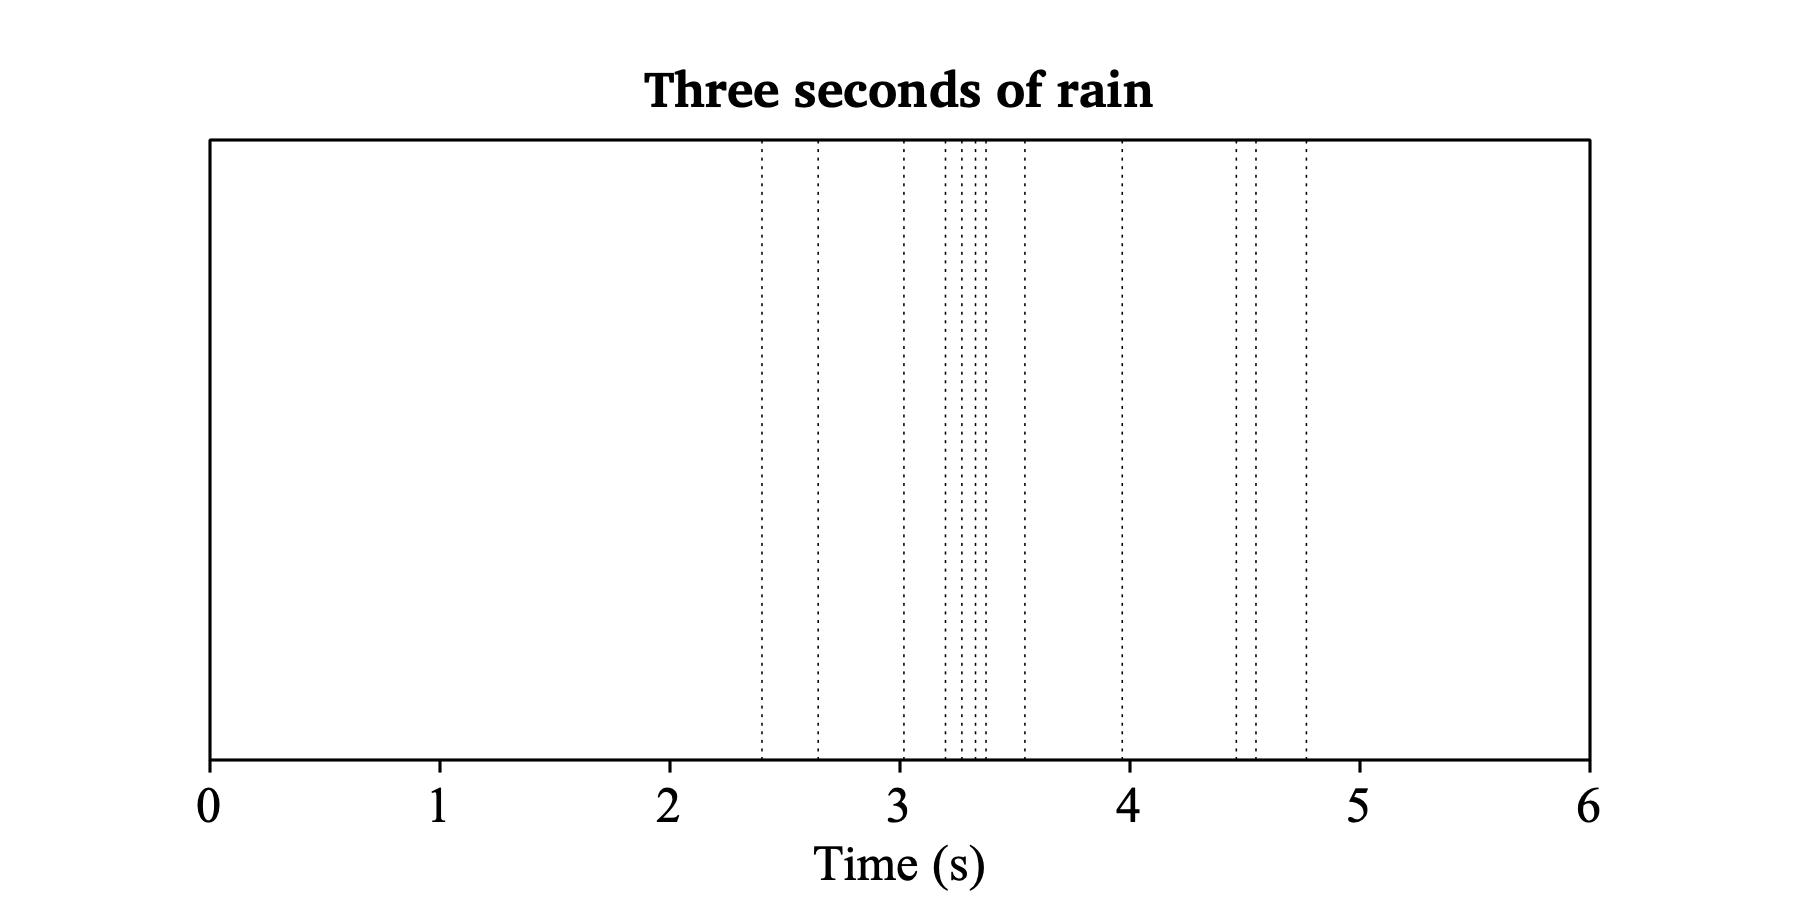
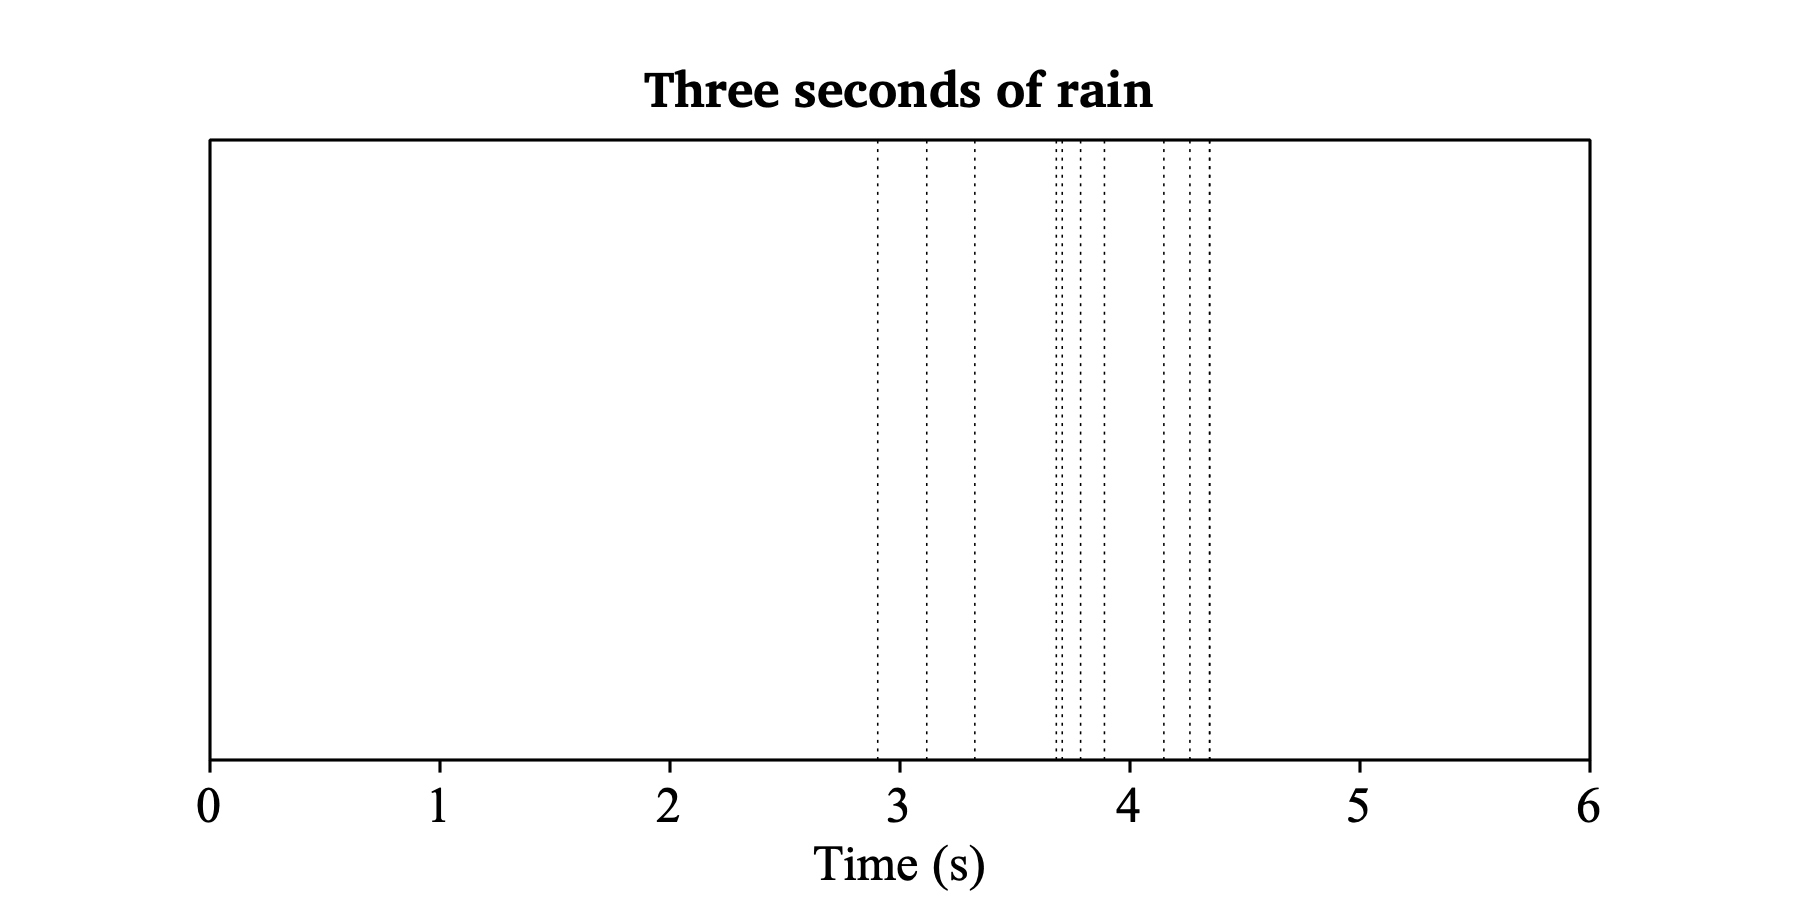
sources for version 7.0.02

diff --git a/docs/manual/_randomImax_.html b/docs/manual/_randomImax_.html
@@ -24,25 +24,25 @@ randomImax
 <code>       <a href="_appendInfoLine_.html">appendInfoLine</a>: outcome<br></code>
 <code>   endfor<br></code>
 <code style="color:red">=&gt;</code><br>
+<code>   3<br></code>
+<code>   1<br></code>
+<code>   2<br></code>
+<code>   2<br></code>
+<code>   3<br></code>
+<code>   2<br></code>
+<code>   2<br></code>
+<code>   1<br></code>
+<code>   1<br></code>
+<code>   3<br></code>
+<code>   1<br></code>
+<code>   1<br></code>
+<code>   3<br></code>
 <code>   1<br></code>
 <code>   2<br></code>
 <code>   1<br></code>
-<code>   2<br></code>
-<code>   3<br></code>
 <code>   3<br></code>
 <code>   1<br></code>
 <code>   1<br></code>
-<code>   3<br></code>
-<code>   3<br></code>
-<code>   1<br></code>
-<code>   3<br></code>
-<code>   3<br></code>
-<code>   1<br></code>
-<code>   3<br></code>
-<code>   1<br></code>
-<code>   1<br></code>
-<code>   1<br></code>
-<code>   2<br></code>
 <code>   1<br></code>
 <p>All elements of the vector have to be non-negative:</p>
 <code>   <a href="_asserterror_.html">asserterror</a> Element 2 is less than zero; cannot interpret as a probability.<br></code>
@@ -55,24 +55,24 @@ randomImax
 <code style="color:red">=&gt;</code><br>
 <code>   3<br></code>
 <code>   1<br></code>
-<code>   1<br></code>
 <code>   3<br></code>
 <code>   3<br></code>
-<code>   1<br></code>
-<code>   1<br></code>
 <code>   3<br></code>
 <code>   1<br></code>
 <code>   1<br></code>
-<code>   1<br></code>
-<code>   1<br></code>
-<code>   3<br></code>
 <code>   1<br></code>
 <code>   3<br></code>
 <code>   1<br></code>
 <code>   1<br></code>
 <code>   3<br></code>
 <code>   1<br></code>
+<code>   1<br></code>
 <code>   3<br></code>
+<code>   3<br></code>
+<code>   3<br></code>
+<code>   1<br></code>
+<code>   1<br></code>
+<code>   1<br></code>
 <p>Not all elements of the vector can be zero:</p>
 <code>   <a href="_asserterror_.html">asserterror</a> Cannot interpret a zero vector as probabilities.<br></code>
 <code>   a = <b>randomImax</b> ({ 0.0, 0.0, 0.0 })<br></code>

diff --git a/docs/manual/Skala__2005_.html b/docs/manual/Skala__2005_.html
@@ -1,5 +1,5 @@
 <html><head><meta name="robots" content="index,follow"><meta http-equiv="Content-Type" content="text/html; charset=utf-8">
-<title>Table: Get median absolute deviation...</title>
+<title>Skala (2005)</title>
 <style>
    td { padding-left: 5pt; padding-right: 5pt; }
    th { padding-left: 5pt; padding-right: 5pt; }
@@ -9,12 +9,12 @@
 </head><body bgcolor="#FFFFFF">
 
 <table border=0 cellpadding=0 cellspacing=0><tr><td bgcolor="#CCCC00"><table border=4 cellpadding=9><tr><td align=middle bgcolor="#000000"><font face="Palatino,Times" size=6 color="#999900"><b>
-Table: Get median absolute deviation...
+Skala (2005)
 </b></font></table></table>
-<p>A command that becomes available in the Query submenu when you select a <a href="Table.html">Table</a> object, to get information about the median absolute deviation of the values in the specified column.</p>
+<p>V. Skala (2005): "A new approach to line and line segment clipping in homogeneous coordinates." <i>Visual Comput.</i> <b>21</b>: 905&#8211;914.</p>
 <hr>
 <address>
-	<p>© Paul Boersma 2023</p>
+	<p>© djmw 20260819</p>
 </address>
 </body>
 </html>

diff --git a/docs/manual/FAQ__How_to_cite_Praat.html b/docs/manual/FAQ__How_to_cite_Praat.html
@@ -14,7 +14,7 @@ FAQ: How to cite Praat
 <p><b>Question</b>: how do I cite Praat in my articles?</p>
 <p>Answer: nowadays most journals allow you to cite computer programs and web sites. The style approved by the American Psychological Association, and therefore by many journals, is like the following (change the dates and version number as needed):</p>
 <code style="color:red">=&gt;</code><br>
-<code>   Paul Boersma, David Weenink & Anastasia Shchupak (2026). Praat: doing phonetics by computer [Computer program]. Version 7.0.01, retrieved 18 August 2026 from https://praat.org<br></code>
+<code>   Paul Boersma, David Weenink & Anastasia Shchupak (2026). Praat: doing phonetics by computer [Computer program]. Version 7.0.02, retrieved 26 August 2026 from https://praat.org<br></code>
 <p>If the journal does not allow you to cite a web site, then try:</p>
 <p>Boersma, Paul (2001). Praat, a system for doing phonetics by computer. <i>Glot International</i> <b>5:9/10</b>, 341-345.</p>
 <p>This paper can be downloaded from Boersma&#8217;s website.</p>

diff --git a/docs/manual/Checking_for_updates.html b/docs/manual/Checking_for_updates.html
@@ -14,7 +14,7 @@ Checking for updates
 <p>Updates for Praat are available from <code><font size=+1>praat.org</font></code> or <code><font size=+1>www.fon.hum.uva.nl/praat</font></code>.</p>
 <p>Your current version (if you are reading this from the manual inside the Praat program, rather than from the website) is:</p>
 <code style="color:red">=&gt;</code><br>
-<code>   7.0.01, from August 18, 2026<br></code>
+<code>   7.0.02, from August 26, 2026<br></code>
 <p>Given that we tend to release new Praat versions once or twice a month, you can probably guess whether it would be worth your while to have a look at <code><font size=+1>praat.org</font></code> or <code><font size=+1>www.fon.hum.uva.nl/praat</font></code> to see what is new, and perhaps download a new version.</p>
 <p>Praat improves continually, and old features will almost always continue to work, so there should never be a reason to continue to work with older versions.</p>
 <h2>Why no automatic update checking?</h2>

diff --git a/docs/manual/_clock_.html b/docs/manual/_clock_.html
@@ -23,14 +23,14 @@ clock
 <code>   endfor<br></code>
 <code>   <a href="_appendInfoLine_.html">appendInfoLine</a>: "Time elapsed: ", <b>clock</b>() - t, " seconds"<br></code>
 <code style="color:red">=&gt;</code><br>
-<code>   Time elapsed: 0.0001272079534828663 seconds<br></code>
+<code>   Time elapsed: 0.00013170810416340828 seconds<br></code>
 <code>   t = <b>clock</b>()<br></code>
 <code>   for i to 1000<br></code>
 <code>   endfor<br></code>
 <code>   timeElapsed = <b>clock</b>() - t<br></code>
 <code>   <a href="_appendInfoLine_.html">appendInfoLine</a>: "Time elapsed: ", <a href="_fixed-S_.html">fixed$</a> (1000 * timeElapsed, 3), " ms"<br></code>
 <code style="color:red">=&gt;</code><br>
-<code>   Time elapsed: 0.126 ms<br></code>
+<code>   Time elapsed: 0.128 ms<br></code>
 <h3>Links to this page</h3>
 <ul>
 <li><a href="Functions.html">Functions</a>

diff --git a/docs/manual/Create_H1H2_table__Keating___Esposito_2006_.html b/docs/manual/Create_H1H2_table__Keating___Esposito_2006_.html
@@ -11,7 +11,7 @@
 <table border=0 cellpadding=0 cellspacing=0><tr><td bgcolor="#CCCC00"><table border=4 cellpadding=9><tr><td align=middle bgcolor="#000000"><font face="Palatino,Times" size=6 color="#999900"><b>
 Create H1H2 table (Keating & Esposito 2006)
 </b></font></table></table>
-<p>A command in the <b>Datasets fromm the literature</b> submenu of the <b>Tables</b> submenu of the <a href="New_menu.html">New menu</a>, to create a Table from <a href="Keating___Esposito__2006_.html">Keating & Esposito (2006)</a>.</p>
+<p>A command in the <b>Datasets from the literature</b> submenu of the <b>Tables</b> submenu of the <a href="New_menu.html">New menu</a>, to create a Table from <a href="Keating___Esposito__2006_.html">Keating & Esposito (2006)</a>.</p>
 <h3>Links to this page</h3>
 <ul>
 <li><a href="Table.html">Table</a>

diff --git a/docs/manual/Create_Table__Ganong_1980_.html b/docs/manual/Create_Table__Ganong_1980_.html
@@ -11,7 +11,7 @@
 <table border=0 cellpadding=0 cellspacing=0><tr><td bgcolor="#CCCC00"><table border=4 cellpadding=9><tr><td align=middle bgcolor="#000000"><font face="Palatino,Times" size=6 color="#999900"><b>
 Create Table (Ganong 1980)
 </b></font></table></table>
-<p>A command in the <b>Datasets fromm the literature</b> submenu of the <b>Tables</b> submenu of the <a href="New_menu.html">New menu</a>, to create a Table from <a href="Ganong__1980_.html">Ganong (1980)</a>.</p>
+<p>A command in the <b>Datasets from the literature</b> submenu of the <b>Tables</b> submenu of the <a href="New_menu.html">New menu</a>, to create a Table from <a href="Ganong__1980_.html">Ganong (1980)</a>.</p>
 <h3>Links to this page</h3>
 <ul>
 <li><a href="Table.html">Table</a>

diff --git a/docs/manual/Scripting_6_5__Calling_system_commands.html b/docs/manual/Scripting_6_5__Calling_system_commands.html
@@ -49,11 +49,11 @@ Scripting 6.5. Calling system commands
 <code>   time = <b><a href="_stopwatch_.html">stopwatch</a></b><br></code>
 <code>   <a href="_writeInfoLine_.html">writeInfoLine</a>: a, " ", fixed$ (time, 3)<br></code>
 <code style="color:red">=&gt;</code><br>
-<code>   1.23456789e+123 0.031<br></code>
+<code>   1.23456789e+123 0.029<br></code>
 <p>How many nanoseconds is that per assignment?</p>
 <code>   <a href="_writeInfoLine_.html">writeInfoLine</a>: round (time / 100000 * 1e9)<br></code>
 <code style="color:red">=&gt;</code><br>
-<code>   311<br></code>
+<code>   295<br></code>
 <h3>Links to this page</h3>
 <ul>
 <li><a href="_runSubprocess-S_.html"><code><font size=+1>runSubprocess$</font></code></a>

diff --git a/docs/manual/What_s_new_.html b/docs/manual/What_s_new_.html
@@ -12,6 +12,12 @@
 What's new?
 </b></font></table></table>
 <p>Latest changes in Praat.</p>
+<p><b>7.0.02</b> (26 August 2026)</p>
+<dl>
+<dd style="position:relative;padding-left:1em;text-indent:-2em">&#8226; Corpus: extract TextGrid, Sound, speakers Table.</dd>
+<dd style="position:relative;padding-left:1em;text-indent:-2em">&#8226; CGN Corpus: extract components, education regions.</dd>
+<dd style="position:relative;padding-left:1em;text-indent:-2em">&#8226; Sound: To CPP...</dd>
+</dl>
 <p><b>7.0.01</b> (18 August 2026)</p>
 <dl>
 <dd style="position:relative;padding-left:1em;text-indent:-2em">&#8226; <a href="CPP.html">CPP</a>.</dd>

diff --git a/docs/manual/energy_integration_continuity_test.html b/docs/manual/energy_integration_continuity_test.html
@@ -154,7 +154,7 @@ energy integration continuity test
 <code>   97 4.406692478671509e-06 6.241608416314356e-11<br></code>
 <code>   98 4.406754894755672e-06 6.241608416314356e-11<br></code>
 <code>   99 4.406817310839835e-06 6.241608416314356e-11<br></code>
-<code>   ## time elapsed: 81.102 ms<br></code>
+<code>   ## time elapsed: 79.476 ms<br></code>
 <hr>
 <address>
 	<p>© Paul Boersma 2025-05-14</p>

diff --git a/docs/manual/_date_iso-S_.html b/docs/manual/_date_iso-S_.html
@@ -19,7 +19,7 @@ date_iso$
 </dl>
 <code>   writeInfoLine: date_iso$ ()<br></code>
 <code style="color:red">=&gt;</code><br>
-<code>   2026-08-19T02:10:45+02:00<br></code>
+<code>   2026-08-28T10:57:48+02:00<br></code>
 <h3>Links to this page</h3>
 <ul>
 <li><a href="Functions.html">Functions</a>

diff --git a/docs/manual/_date_utc-S_.html b/docs/manual/_date_utc-S_.html
@@ -19,7 +19,7 @@ date_utc$
 </dl>
 <code>   writeInfoLine: date_utc$ ()<br></code>
 <code style="color:red">=&gt;</code><br>
-<code>   Wed Aug 19 00:10:45 2026<br></code>
+<code>   Fri Aug 28 08:57:48 2026<br></code>
 <h3>Links to this page</h3>
 <ul>
 <li><a href="Functions.html">Functions</a>
